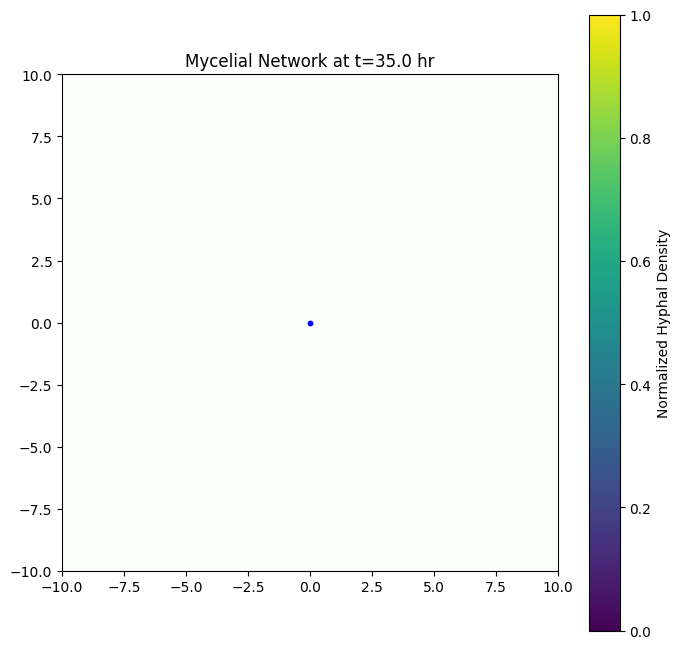
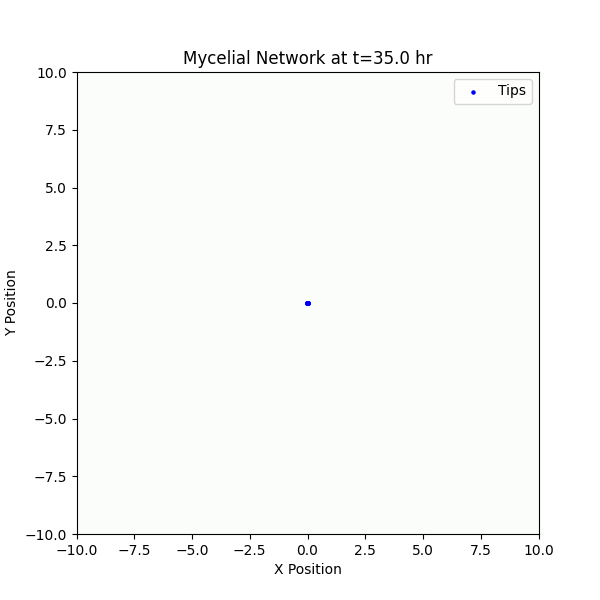
Further tweaking the anastomosis functionality

Changed region(s): [[0.0, 0.0, 0.99, 0.99], [0.45, 0.48, 0.48, 0.51]]

diff --git a/src/bare_equation.py b/src/bare_equation.py
@@ -1,8 +1,6 @@
 import numpy as np
 import matplotlib.pyplot as plt
 import os
-import matplotlib.image as mpimg
-
 
 class MycelialNetwork:
     def __init__(self):
@@ -13,11 +11,6 @@ class MycelialNetwork:
         self.v_p = 2.8     # Puller tip speed (μm/hr)
         self.puller_frac = 0.3  # 30% puller tips
         self.ρ_sat = 1700.0 # Saturation density (μm⁻¹)
-
-        self.grid_size = 50  # For density fields
-        self.n_grid = np.zeros((self.grid_size, self.grid_size))
-        self.ρ_grid = np.zeros((self.grid_size, self.grid_size))
-        self.puller_mask = None
 
         # Simulation parameters
         self.Δt = 0.01    # Smaller timestep (hr)
@@ -44,196 +37,106 @@ class MycelialNetwork:
         os.makedirs(self.output_dir, exist_ok=True)
 
     def update(self):
-        # Reset merge tracking
-        self.merged_positions = np.empty((0, 2))
+        # Initialize merged_positions to avoid reference errors
+        merged_positions = []
 
-        # Convert current tip positions to density fields
-        self.update_density_fields_from_tips()
+        # Ensure we always have at least 1 tip
+        if len(self.tip_positions) == 0:
+            self.tip_positions = np.array([[0.0, 0.0]])
 
-        # Detect wavefront (puller tips)
-        self.detect_wavefront()
+        # Branching - create new tips
+        branching_prob = self.α * self.Δt
+        new_tips = []
+        for tip in self.tip_positions:
+            if np.random.rand() < branching_prob:
+                # Create new tip near parent with small random offset
+                new_tip = tip + np.random.normal(0, 0.2, 2)
+                new_tips.append(new_tip)
 
-        # Update densities using PDE logic
-        self.update_densities_hybrid()
-
-        # Convert densities back to tip counts (ensure minimum 1 tip)
-        self.tips = max(1, int(round(self.tips)))
-        self.puller_tips = int(self.tips * self.puller_frac)
-        self.regular_tips = self.tips - self.puller_tips
-
-        # Tip branching now creates actual new tips
-        new_tip_count = int(self.α * self.tips * self.Δt)
-        if new_tip_count > 0:
-            parent_indices = np.random.choice(len(self.tip_positions), new_tip_count)
-            new_positions = self.tip_positions[parent_indices] + np.random.normal(0, 0.1, (new_tip_count, 2))
-            self.tip_positions = np.vstack([self.tip_positions, new_positions])
+        if new_tips:
+            self.tip_positions = np.vstack([self.tip_positions, new_tips])
 
         # Anastomosis with improved merging
         if len(self.tip_positions) > 1:
-            # Calculate pairwise distances
-            dists = np.linalg.norm(self.tip_positions[:, None] - self.tip_positions[None, :], axis=-1)
-            np.fill_diagonal(dists, np.inf)
+            dist_matrix = np.linalg.norm(
+                self.tip_positions[:, None] - self.tip_positions[None, :],
+                axis=-1
+            )
+            np.fill_diagonal(dist_matrix, np.inf)
 
             # Find merge candidates
-            r_merge = 0.5  # Increased merge radius
-            i, j = np.where(dists < r_merge)
-            pairs = set((min(i,k), max(i,k)) for i,k in zip(i,j) if i < k)
+            r_merge = 0.5  # Merge radius
+            merge_prob = min(0.5, self.β * self.ρ * 1e-3 * self.Δt * 100)  # Boosted probability
 
-            # Process merges
             merged_indices = set()
-            merged_positions = []
 
-            for i, j in pairs:
-                if i not in merged_indices and j not in merged_indices:
-                    if np.random.rand() < self.β * self.Δt * 100:  # Scaled probability
+            for i in range(len(self.tip_positions)):
+                for j in range(i+1, len(self.tip_positions)):
+                    if dist_matrix[i, j] < r_merge and np.random.rand() < merge_prob:
                         midpoint = (self.tip_positions[i] + self.tip_positions[j]) / 2
                         merged_positions.append(midpoint)
                         merged_indices.update([i, j])
-                        self.ρ = min(self.ρ + 20, self.ρ_sat)  # Significant density increase
+                        self.ρ = min(self.ρ + 0.5, self.ρ_sat)  # Smaller density increase
 
             # Apply merges
             if merged_indices:
-                self.merged_positions = np.array(merged_positions)
                 keep_mask = np.ones(len(self.tip_positions), dtype=bool)
                 keep_mask[list(merged_indices)] = False
-                self.tip_positions = np.vstack([self.tip_positions[keep_mask], self.merged_positions])
+                self.tip_positions = np.vstack([
+                    self.tip_positions[keep_mask],
+                    np.array(merged_positions)
+                ])
 
         # Tip movement
-        self.update_tip_positions()
-
-        # Store data
-        self.time += self.Δt
-        self.time_series.append(self.time)
-        self.tips_series.append(len(self.tip_positions))  # Use actual count
-        self.ρ_series.append(self.ρ)
-
-        # Diagnostic output
-        if self.time % 1 < self.Δt:  # Print once per hour
-            print(f"t={self.time:.1f}hr: tips={len(self.tip_positions)}, mergers={len(self.merged_positions)}, ρ={self.ρ:.1f}")
-
-    def update_density_fields_from_tips(self):
-        """Convert discrete tips to continuous density fields"""
-        self.n_grid = np.zeros((self.grid_size, self.grid_size))
-        self.ρ_grid = np.zeros((self.grid_size, self.grid_size))
-
-        # Convert tip positions to grid coordinates
-        grid_coords = ((self.tip_positions + 10) * (self.grid_size-1)/20).astype(int)
-
-        # Spread tip influence over nearby grid points
-        for (x,y) in grid_coords:
-            for i in range(max(0,x-1), min(self.grid_size,x+2)):
-                for j in range(max(0,y-1), min(self.grid_size,y+2)):
-                    dist = np.linalg.norm(self.tip_positions - [x,y])
-                    weight = np.exp(-dist**2/(2*0.5**2))  # Gaussian kernel
-                    self.n_grid[i,j] += weight * self.tips/len(self.tip_positions)
-
-        # Scale hyphal density to match your existing ρ
-        self.ρ_grid[:,:] = self.ρ * (self.n_grid/np.sum(self.n_grid) if np.sum(self.n_grid) > 0 else 0)
-
-    def detect_wavefront(self):
-        """Identify puller tips at the expanding edge"""
-        if len(self.tip_positions) == 0:
-            return
-
-        # Find tips farthest from center
-        distances = np.linalg.norm(self.tip_positions, axis=1)
-        front_threshold = np.percentile(distances, 70)
-        self.puller_mask = distances >= front_threshold
-
-    def update_densities_hybrid(self):
-        """PDE-inspired updates scaled to your population counts"""
-        # Calculate effective branching and anastomosis
-        effective_b = self.α * self.tips
-        effective_a = self.β * self.tips * self.ρ * 1e-3
-
-        # Apply to tip populations (preserving your tuned behavior)
-        new_tips = effective_b * self.Δt
-        lost_tips = effective_a * self.Δt
-
-        # Update populations
-        self.puller_tips += new_tips * self.puller_frac - lost_tips * (self.puller_tips/max(1,self.tips))
-        self.regular_tips += new_tips * (1-self.puller_frac) - lost_tips * (self.regular_tips/max(1,self.tips))
-        self.tips = self.puller_tips + self.regular_tips
-
-        # Hyphal growth - pullers contribute more
-        puller_ratio = self.puller_tips/max(1,self.tips)
-        effective_v = self.v_p * puller_ratio + self.v_avg * (1-puller_ratio)
-        Δρ = effective_v * self.tips * self.Δt
-        self.ρ = min(self.ρ + Δρ, self.ρ_sat)
-
-    def update_tip_counts_from_densities(self):
-        """Ensure conservation of your carefully tuned totals"""
-        # No conversion needed - we maintained tip counts directly
-        pass
-
-    def update_tip_positions(self):
-        """Your existing position update logic"""
-        num_new_tips = int(self.α * self.tips * self.Δt)
-        if num_new_tips > 0:
-            parent_indices = np.random.choice(len(self.tip_positions), num_new_tips)
-            new_positions = self.tip_positions[parent_indices] + np.random.randn(num_new_tips, 2) * 0.1
-            self.tip_positions = np.vstack([self.tip_positions, new_positions])
-
         density_gradient = -self.tip_positions / (np.linalg.norm(self.tip_positions, axis=1, keepdims=True) + 1e-5)
         movement = density_gradient * (self.v_avg * self.Δt)
         self.tip_positions += movement
 
+        # Hyphal growth (∂ρ/∂t = v * n)
+        Δρ = (self.v_p * self.puller_tips + self.v_avg * self.regular_tips) * self.Δt
+        self.ρ = min(self.ρ + Δρ, self.ρ_sat)
+
+        # Update time and tracking
+        self.time += self.Δt
+        self.tips = len(self.tip_positions)  # Use actual tip count
+        self.time_series.append(self.time)
+        self.tips_series.append(self.tips)
+        self.ρ_series.append(self.ρ)
+
+        # Diagnostic output
+        if self.time % 1 < self.Δt:  # Print once per hour
+            print(f"t={self.time:.1f}hr: tips={self.tips}, mergers={len(merged_positions)}, ρ={self.ρ:.1f}")
+
     def run(self):
-        # Set matplotlib to non-interactive backend
-        import matplotlib
-        matplotlib.use('Agg')  # Set before importing pyplot
+        print(f"t={self.time:.1f}hr: tips={self.tips:.2f} (pullers={self.puller_tips:.2f}), ρ={self.ρ:.4f} μm")
+        self.plot_network(0)  # Plot initial state
 
         while self.time < self.total_time:
             self.update()
-
-            # Plot at specified intervals
-            if abs(self.time % self.plot_interval) < self.Δt:
-                self.plot_network(self.time)
-    
-        # Generate final summary plot
-        self.plot_summary()
+            if abs(self.time % self.plot_interval) < self.Δt:  # Plot every plot_interval hours
+                print(f"t={self.time:.1f}hr: tips={self.tips:.2f} (pullers={self.puller_tips:.2f}), ρ={self.ρ:.4f} μm")
+                self.plot_network(int(self.time))
 
     def plot_network(self, time_index):
-        plt.figure(figsize=(8, 8))
+        plt.figure(figsize=(6, 6))
 
-        # Plot hyphal density background
-        plt.imshow(
-            np.full((100, 100), self.ρ / self.ρ_sat),
-            extent=(-10, 10, -10, 10),
-            cmap='Greens',
-            alpha=0.3,
-            vmin=0, vmax=1
-        )
+        # Plot tips at their actual positions
+        plt.scatter(self.tip_positions[:, 0], self.tip_positions[:, 1], color='blue', label='Tips', s=5)
 
-        # Plot all tips
-        plt.scatter(
-            self.tip_positions[:, 0], 
-            self.tip_positions[:, 1],
-            c='blue',
-            s=10,
-            label=f'Tips ({len(self.tip_positions)})'
-        )
-
-        # Highlight merged positions if they exist
-        if hasattr(self, 'merged_positions') and len(self.merged_positions) > 0:
-            plt.scatter(
-                self.merged_positions[:, 0],
-                self.merged_positions[:, 1],
-                c='red',
-                marker='x',
-                s=50,
-                label=f'Mergers ({len(self.merged_positions)})'
-            )
+        # Plot hyphal density as a background color
+        plt.imshow(np.full((100, 100), self.ρ / self.ρ_sat), extent=(-10, 10, -10, 10), cmap='Greens', alpha=0.5)
 
         plt.title(f'Mycelial Network at t={self.time:.1f} hr')
-        plt.colorbar(label='Normalized Hyphal Density')
         plt.xlim(-10, 10)
         plt.ylim(-10, 10)
+        plt.xlabel('X Position')
+        plt.ylabel('Y Position')
+        plt.legend()
 
-        # Save to file without displaying
-        plot_filename = os.path.join(self.output_dir, f'network_t={int(time_index):03d}hr.png')
-        plt.savefig(plot_filename, dpi=100, bbox_inches='tight')
-        plt.close()  # Critical - prevents plot display
+        # Save the plot as an image file
+        plot_filename = os.path.join(self.output_dir, f'network_t={time_index:03d}hr.png')
+        plt.savefig(plot_filename)
+        plt.close()
 
 # Run simulation
 model = MycelialNetwork()
